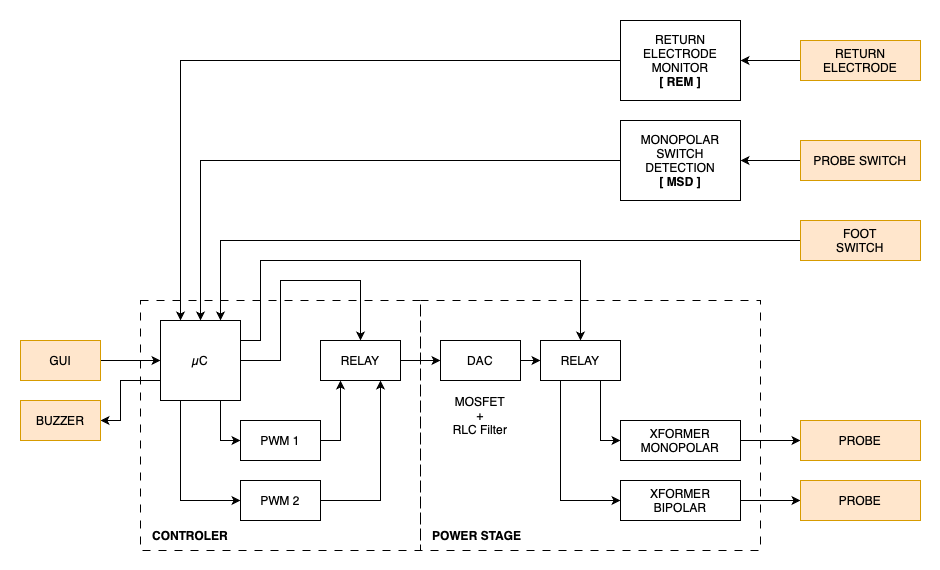
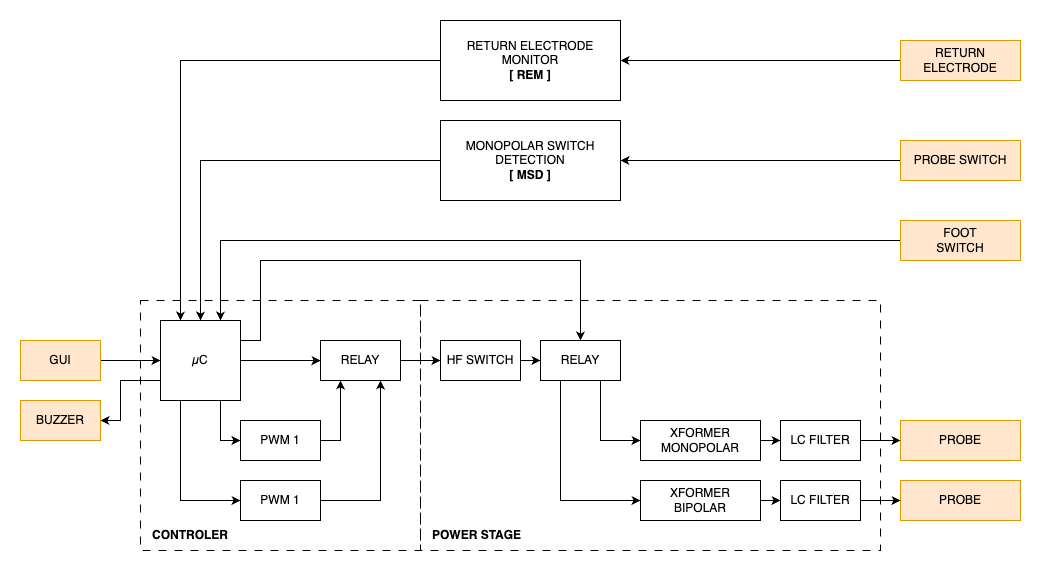
modified:   README.md 	new file:   pic/.$ESU-block-diagram.drawio.dtmp 	modified:   pic/.$Skin-Effect.drawio.bkp 	modified:   pic/ESU-block-diagram.png

diff --git a/README.md b/README.md
@@ -234,7 +234,7 @@ The combination of clock frequency and resolution plays a vital role in determin
 | Other |	        N/A	| Invalid	            | 1 6 100 |	N/A	              | 02              |
 
 ## 2.4. Power Stage
-### 2.4.1. DAC
+### 2.4.1. HF Switch
 #### 2.4.1.1. Schematic
 
 <p align="center">